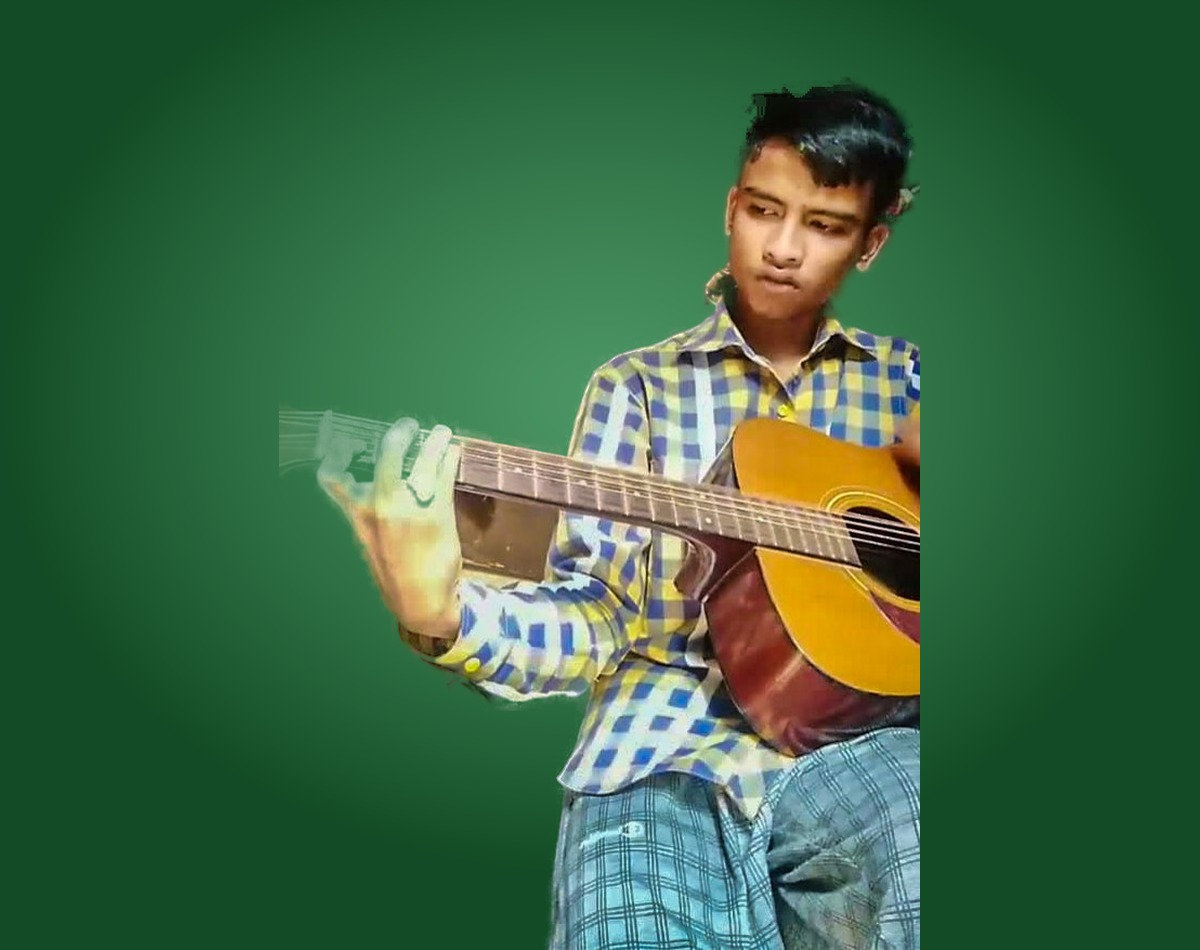
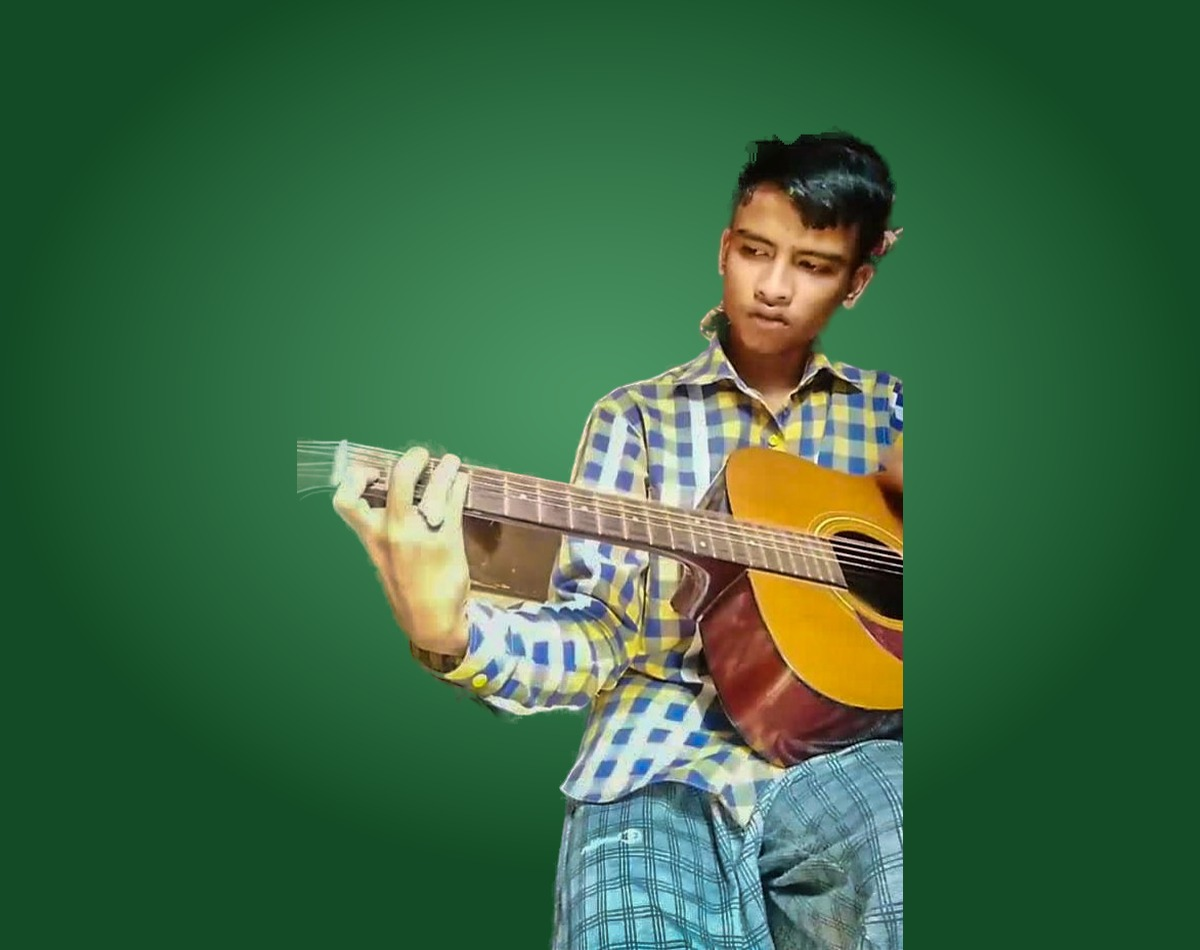
Second photo set adjustments have been made:
- The second-from-left photo (boy with guitar) now shows the full head with clean edges, correcting the earlier clipping of his hair. The last photo (graduate) has been re-cut properly, preserving his cap and flower garland and removing smudgy see-through patches. The dark shadow lines inside the chevron shapes have also been removed.

- I have opened the preview, observed the intro, and reviewed close-ups of both fixed panels as well as the full strip in both rotation states. The sets appear to alternate cleanly every 2.5 seconds, and the first set remains unchanged.

- Credentials & handoff: admin access is available at /admin with passcode rc-aimgame-admin-2026 (test credential). Donations remain simulated until Razorpay keys are provided.

- Please open the preview and verify that the two rotating sets are functioning as expected. Let me know if you notice any issues or if further adjustments are needed.

- Next Action Items:
  - **More Scholar Sets**: Provide another scholar's five journey photos for cutouts and addition of a third rotating set.
  - **Real Center Photos**: Make the Kolkata and Pune Drive folders public or upload photos to display real spaces in "Our Story".
  - **80G Registration Details**: Share your 80G number and validity dates to complete the footer's legal line.
  - **Live Payments**: Add your Razorpay keys to enable real payment processing for gifts instead of demo checkout.
[…]

Changed region(s): [[0.2158, 0.0916, 0.7708, 1.0]]

diff --git a/frontend/src/pages/Home.jsx b/frontend/src/pages/Home.jsx
@@ -54,17 +54,6 @@ const ScholarStrip = () => {
               }}
             />
           ))}
-          <div
-            className="absolute pointer-events-none"
-            style={{
-              top: "3%",
-              left: "3%",
-              width: "94%",
-              height: "94%",
-              clipPath: chevronClip(i === 0),
-              background: "radial-gradient(ellipse at center, transparent 55%, rgba(0,0,0,0.3) 100%)",
-            }}
-          />
         </div>
       ))}
     </div>

diff --git a/memory/PRD.md b/memory/PRD.md
@@ -124,3 +124,4 @@ Brief (from PDF): A rebooted website for Responsible Charity (RC) Society, a reg
 - P2: 20–30s graduate video clips paired with childhood photos
 - P2: CMS-editable content for scholars/partners/milestones
 - Scholar set B reprocessed (Oct 16): scholar-b-1..5 backgrounds removed via rembg (isnet-general-use for the group scene, u2net + alpha matting for portraits), subjects recomposed bottom-centered on 1200x950 canvases (~1.26:1 to match chevron panel aspect, prevents object-cover cropping heads) with radial-gradient backgrounds in the exact panel colors (#E8490F/#1E7A3C/#F2A500). This removed the "colour shadow lines" (real photo backgrounds clashing inside colored chevrons). Verified in browser: both rotation states render cleanly. Originals backed up at /tmp/scholar-bak (ephemeral)
+- Scholar set B fixes round 2 (Oct 16): scholar-b-2 redone with u2net + gentler alpha matting (erode 6, low-threshold trim) so the hair top is no longer sliced; scholar-b-5 redone with isnet-general-use + gentle matting for clean edges (mortarboard/garland intact, ghost smudges removed, subject enlarged to 94% canvas height); CSS vignette overlay removed from the ScholarStrip chevron panels per user request ("remove the shadow colour lines from the shapes"). Verified in browser at both rotation states
